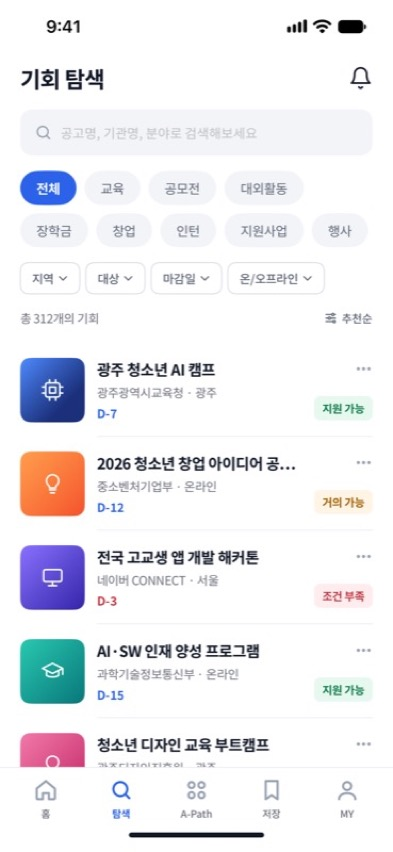
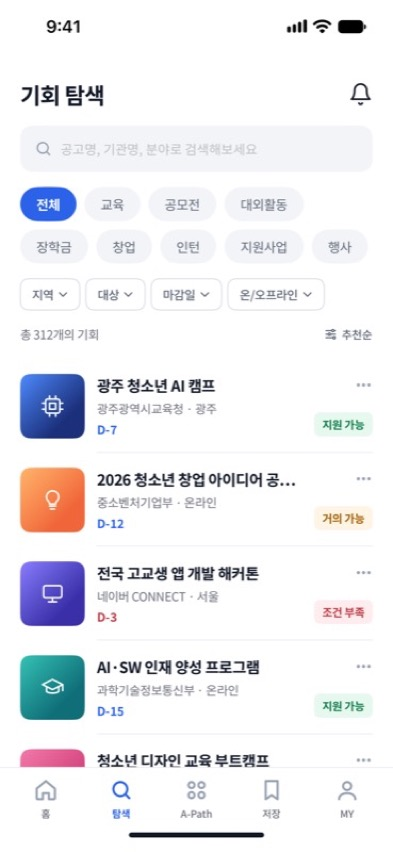
docs: #15 correct Explore Figma crop and record C4 parity
Refresh the Explore target from the frame origin and recapture its simulator comparison after spacing correction. Record the C4 bottom sheet measurements, behavior, screenshots, and updated audit progress.

diff --git a/Docs/figma-screen-audit.md b/Docs/figma-screen-audit.md
@@ -36,7 +36,7 @@
 | 34:1186 | C1 검색 | 393×852 | 수정 후 직접 재대조 완료 · 검색창·최근 검색·인기 검색어·탐색 연결 |
 | 34:1250 | C2 검색 결과 | 393×852 | 수정 후 직접 재대조 완료 · 검색어·14개 결과·5개 행·상태 배지 |
 | 34:1368 | C3 검색 결과 없음 | 393×852 | 수정 후 직접 재대조 완료 · 빈 결과 아이콘·문구·초기화 CTA |
-| 34:1398 | C4 필터 | 393×852 | 미대조 |
+| 34:1398 | C4 필터 | 393×852 | 수정 후 직접 재대조 완료 · 하단 필터 시트·선택 칩·결과 CTA |
 | 34:1596 | C5 정렬 | 393×852 | 미대조 |
 | 34:1759 | C6 더보기 | 393×852 | 미대조 |
 | 35:1487 | D1 상세 · 지원 자격 | 393×852 | 미대조 |
@@ -79,7 +79,7 @@
 ## 직접 확인한 차이
 
 - `2:3 01 Home`: Figma 기준 필터 y=198, 대표 카드 y=250, 오늘의 추천 제목 y=417, 추천 카드 y=465, 다음 행동 제목 y=619, 행동 카드 y=667입니다. 화면 여백(20pt), 섹션 간격(18/24pt), 대표 카드(143pt), 추천 카드(170.5×130pt), 다음 행동 카드(78pt), 타이포그래피를 직접 대조했습니다. 추가로 추천 카드의 진행 색(3/4 파랑, 2/4 주황), CPU 타일의 Figma 그라데이션, 카드 그림자, 전체보기 화살표 자산, `+12개` Bold를 수정했습니다. Figma 목표: `Docs/Screenshots/findr-home-figma-target.png`; 수정 후 앱 캡처: `Docs/Screenshots/findr-home-figma-aligned.jpg`. 캡처는 iPhone 17e(390×844)와 Figma 프레임(393×852) 차이 때문에 동일 비율 369×800으로 비교했으며, 상태 표시줄을 제외한 주요 위치 차이는 1–4px입니다.
-- `3:3 02 Explore`: 검색 헤더, 검색 필드, 두 줄 카테고리, 4개 필터, 결과 수와 목록을 Figma와 직접 대조했습니다. 화면 배경은 흰색으로, 필터는 높이 31pt와 각 너비 59/59/70/96pt로, 목록은 행 높이 93pt·아트 타일 64pt·제목 15pt Bold·기관/지역 12pt Regular·마감 12pt Bold로 맞췄습니다. Explore 행에 Figma에 없는 진행 바와 충족 조건 수가 보이던 점, 첫 행이 16pt 위에서 시작하던 점, 더보기 아이콘과 상태 배지가 행 끝으로 벌어지던 점을 수정했습니다. 첫 행의 타일 시작은 Figma y=359, 시뮬레이터를 393pt 너비로 환산한 캡처에서 약 y=358입니다. Figma 캔버스 높이 933pt와 iPhone 17e 화면 높이 852pt가 달라 탭 바 위치와 한 화면에 보이는 행 수는 다릅니다. 목표: `Docs/Screenshots/findr-explore-figma-target.png`; 앱: `Docs/Screenshots/findr-explore-figma-aligned.jpg`.
+- `3:3 02 Explore`: 검색 헤더, 검색 필드, 두 줄 카테고리, 4개 필터, 결과 수와 목록을 Figma와 직접 대조했습니다. 화면 배경은 흰색으로, 필터는 높이 31pt와 각 너비 59/59/70/96pt로, 목록은 행 높이 93pt·아트 타일 64pt·제목 15pt Bold·기관/지역 12pt Regular·마감 12pt Bold로 맞췄습니다. Explore 행에 Figma에 없는 진행 바와 충족 조건 수가 보이던 점, 더보기 아이콘과 상태 배지가 행 끝으로 벌어지던 점을 수정했습니다. Figma 원본을 다시 내보내 프레임 상단 기준으로 잘라 이전 목표 이미지의 16pt crop 오차를 바로잡았고, 이에 맞춰 Explore 상단 여백을 30pt로 조정했습니다. 첫 행 타일 시작은 Figma y=375, 시뮬레이터 캡처를 393pt 너비로 환산해 약 y=374입니다. Figma 캔버스 높이 933pt와 iPhone 17e 화면 높이 852pt가 달라 탭 바 위치와 한 화면에 보이는 행 수는 다릅니다. 목표: `Docs/Screenshots/findr-explore-figma-target.png`; 앱: `Docs/Screenshots/findr-explore-figma-aligned.jpg`.
 - `3:424 04 A-Path`: Figma What-if 카드(y=127, h=257), 설명문, 카테고리 탭과 추천 행동 목록을 직접 대조했습니다. 카드 배경/내부 여백, What-if 라벨·제목·현재/완료 수·증가 배지·분야별 칩의 글꼴 크기와 굵기, 비교 화살표 간격을 맞췄고 탭 레이블의 14pt 굵기/색/인디케이터 폭도 수정했습니다. 행동 행은 353×74pt, 간격 10pt, 좌우 패딩 16pt로 맞췄습니다. 두 번째 행의 컴퓨터 아이콘/초록 배경이 파일 아이콘/파랑 배경으로 잘못 표시되던 문제를 고쳐, 추천 행동 전용 색상 SVG를 사용하게 했습니다. Figma 첫 행 y=493, 앱 캡처를 393pt 너비로 환산한 시작 위치는 약 y=494입니다. Figma 927pt와 iPhone 17e 852pt의 화면 높이 차이 때문에 네 번째 행과 탭 바의 노출 범위만 다릅니다. 기준: `Docs/Screenshots/findr-apath-figma-target.png`; 앱: `Docs/Screenshots/findr-apath-figma-aligned.jpg`.
 - `3:558 05 Saved`: 저장 필터(전체 5·지원 가능 3·마감 임박 2), 정렬·마감 알림 행과 카드 목록을 직접 대조했습니다. 본문 위치를 Figma y=86 헤더·y=127 필터·y=180 정렬·y=212 목록에 맞췄습니다. 저장 카드는 353×98pt, 68pt 타일, 15pt Bold 제목, 12pt Regular 기관명, 12pt Bold 마감일, 60pt 진행 막대, 18pt 더보기 아이콘과 22pt 간격, Figma 카드 그림자를 적용했습니다. 첫 대조에서 앱 보조 문구에 지역까지 붙어 있었고, Figma에는 기관명만 표시됩니다. 저장 카드에만 기관명을 표시하도록 수정해 라이트·다크 Saved 두 화면에 반영했습니다. 모니터·전구·졸업모 타일의 Figma 그라데이션 색과 71.429% 색 정지점을 맞췄습니다. Figma 프레임에는 4개 카드가 있고 전체 수는 5로 표시됩니다. 앱의 5번째 저장 기회는 422pt 높이의 내부 목록을 스크롤하면 볼 수 있게 해 초기 화면의 네 카드 배치와 전체 개수를 모두 보존했습니다. 기준: `Docs/Screenshots/findr-saved-figma-target.png`; 앱: `Docs/Screenshots/findr-saved-figma-aligned.jpg`.
 - `3:310 03-B Opportunity Detail (Missing)`: 실제 상세 화면에 연결된 `summer-tech-internship` 상태를 Figma와 대조했습니다. D-14 태그의 색(빨강→브랜드 파랑), 4/5 진행 막대(빨강→경고 주황), 미충족 상태에서 Figma에 없는 혜택 칩을 수정했습니다. 포트폴리오 안내 카드는 내부 여백 16pt, 보조 문구 13pt, 제목 15pt, 22pt 잠금 아이콘으로 맞추고 `6개`에 Figma 파랑을 적용했습니다. 조건 행 직후 안내 카드와 하단 CTA가 Figma 위치에 맞습니다. 기준: `Docs/Screenshots/findr-missing-detail-figma-target.png`; 앱: `Docs/Screenshots/findr-missing-detail-figma-aligned.jpg`.
@@ -105,7 +105,7 @@
 - `20:1418 04 A-Path — Dark`: 다크 배경, 상단 제목과 도움말, What-if 카드, 숫자와 +12 배지, 4개 분해 칩, 설명문, 탭, 행동 카드 3개의 위치·너비·타이포그래피를 Figma와 직접 비교했습니다. Figma와 같은 저장 완료 상태가 없는 실행 조건에서 기본 시나리오가 포트폴리오 만들기, 29→41, +12 및 교육 +4/공모전 +3/인턴 +3/지원 +2로 표시됩니다. 캡처를 393×852로 정규화했을 때 본문 시작점·카드·목록 행의 위치 차이는 약 0–2pt이며, Figma의 정적 Dynamic Island는 기기 캡처와 달라 비교에서 제외했습니다. Figma 기준: `Docs/Screenshots/findr-apath-dark-figma-target.png`; 시뮬레이터: `Docs/Screenshots/findr-apath-dark-figma-aligned.jpg`. 시뮬레이터에 포트폴리오 완료 ID가 저장되어 있으면 다음 시나리오(컴퓨터활용능력, 41→49)가 표시될 수 있습니다. 이는 저장 상태에 따른 결과입니다.
 - `33:1279 B4 알림 센터`: 393×852 Figma 프레임과 iPhone 17e 시뮬레이터 캡처를 정규화해 행·그룹 간격·아이콘·읽음 배지·문장 줄바꿈을 직접 비교했습니다. 앱에서 읽은 행도 투명한 6pt 점 영역을 예약해 `이번 주`의 공고 변경 문장이 Figma보다 일찍 줄바꿈되고, 알림 행 높이 차이로 아래 그룹이 밀렸습니다. 읽지 않은 행에만 점을 배치하고 세로 여백을 13pt로 보정해 Figma의 90pt 행 높이와 그룹 위치를 맞췄습니다. 첫 알림 배경 시작점은 Figma y=151·앱 y=152, 두 번째는 양쪽 y=257이며 텍스트 글리프 위치는 대체로 0–3pt 차이입니다. 설정·잠금·시계는 Figma 원본 SVG를 추가했고 뒤로가기·반짝이·편집 SVG는 로컬 에셋이 원본과 바이트 단위로 일치함을 확인했습니다. Figma의 정적 Dynamic Island와 시뮬레이터 상태 표시줄 모양은 비교에서 제외했습니다. Figma 기준: `Docs/Screenshots/findr-notification-center-b4-figma-target.png`; 앱: `Docs/Screenshots/findr-notification-center-b4-figma-aligned.png`.
 - `33:1354 B5 알림 센터 · 비어 있음`: 393×852 Figma 프레임과 실제 앱의 빈 알림 상태를 비교했습니다. 앱은 벨 원형과 안내 문구가 아래로 약 11–12pt 내려가 있었고 제목과 설명 간격이 Figma보다 좁았습니다. Figma의 32pt 2색 벨 SVG를 원본 렌더링으로 추가하고, 아이콘·제목·설명 사이 12pt 간격 및 본문 세로 배치를 맞췄습니다. 재캡처에서 벨 배경 원은 y=348로 맞고 제목 글리프는 Figma y=437·앱 y=438, 설명은 Figma y=471·앱 y=474입니다. 기준: `Docs/Screenshots/findr-notification-empty-b5-figma-target.png`; 앱: `Docs/Screenshots/findr-notification-empty-b5-figma-aligned.png`. 정적 Dynamic Island와 실제 기기 상태 표시줄은 비교에서 제외했습니다.
-- 직접 대조 완료로 기록한 화면은 `2:3 Home`, `20:1117 Home — Dark`, `20:1200 Explore — Dark`, `20:1338 Opportunity Detail — Dark`, `20:1418 A-Path — Dark`, `20:1524 Saved — Dark`, `20:1632 MY — Dark`, `20:1727 Opportunity Detail (Missing) — Dark`, `30:614 A1 Splash`, `30:628 A2 Onboarding 1`, `30:659 A3 Onboarding 2`, `30:690 A4 Onboarding 3`, `30:721 A5 Login`, `31:672 A6 Profile 1`, `31:719 A7 Profile 2`, `31:771 A8 Profile 3`, `31:830 A9 Profile 4`, `31:881 A10 Analyzing`, `31:916 A11 Result`, `31:954 A12 Notification Permission`, `33:845 B1 Home · 거의 가능`, `33:960 B2 Home · 마감 임박`, `33:1129 B3 오늘의 추천 전체보기`, `33:1279 B4 알림 센터`, `33:1354 B5 알림 센터 · 비어 있음`, `34:1186 C1 검색`, `34:1250 C2 검색 결과`, `34:1368 C3 검색 결과 없음`, `3:3 Explore`, `3:424 A-Path`, `3:558 Saved`, `3:204 Opportunity Detail`, `3:310 Opportunity Detail (Missing)`, `3:716 MY`, G2, G3, G4, G6, G10 서른아홉 개입니다. 총 66개 중 27개는 아직 Figma와 대조하지 않았으며, 나머지 다크 화면과 상태 프레임도 별도로 대조해야 합니다.
+- 직접 대조 완료로 기록한 화면은 `2:3 Home`, `20:1117 Home — Dark`, `20:1200 Explore — Dark`, `20:1338 Opportunity Detail — Dark`, `20:1418 A-Path — Dark`, `20:1524 Saved — Dark`, `20:1632 MY — Dark`, `20:1727 Opportunity Detail (Missing) — Dark`, `30:614 A1 Splash`, `30:628 A2 Onboarding 1`, `30:659 A3 Onboarding 2`, `30:690 A4 Onboarding 3`, `30:721 A5 Login`, `31:672 A6 Profile 1`, `31:719 A7 Profile 2`, `31:771 A8 Profile 3`, `31:830 A9 Profile 4`, `31:881 A10 Analyzing`, `31:916 A11 Result`, `31:954 A12 Notification Permission`, `33:845 B1 Home · 거의 가능`, `33:960 B2 Home · 마감 임박`, `33:1129 B3 오늘의 추천 전체보기`, `33:1279 B4 알림 센터`, `33:1354 B5 알림 센터 · 비어 있음`, `34:1186 C1 검색`, `34:1250 C2 검색 결과`, `34:1368 C3 검색 결과 없음`, `34:1398 C4 필터`, `3:3 Explore`, `3:424 A-Path`, `3:558 Saved`, `3:204 Opportunity Detail`, `3:310 Opportunity Detail (Missing)`, `3:716 MY`, G2, G3, G4, G6, G10 마흔 개입니다. 총 66개 중 26개는 아직 Figma와 대조하지 않았으며, 나머지 다크 화면과 상태 프레임도 별도로 대조해야 합니다.
 
 ## 화면별 완료 기록
 
@@ -127,3 +127,4 @@
 - `34:1186 C1 검색`: Explore 검색 필드를 눌렀을 때 여는 화면이 없어서 검색 경로와 C1 화면을 연결했습니다. Figma의 검색 필드 테두리·아이콘, 취소 버튼, 최근 검색 칩 2행, 인기 검색 8개 순서·색·세로 위치를 직접 비교했습니다. 검색창은 Figma와 앱 모두 y=62에서 시작하고, 칩 행은 y=171/212, 인기 검색 제목은 y=271, 첫 결과는 y=312에 놓입니다. 최근 항목 선택·삭제·전체 삭제와 검색어 선택 후 Explore 결과로 돌아가는 동작도 구현했습니다. 화면 구성은 정규화한 393×852 캡처에서 일치합니다. iPhone 17e와 Figma의 Dynamic Island/상태 표시줄 표현 차이는 제외했습니다. Figma 기준: `Docs/Screenshots/findr-search-c1-figma-target.png`; 앱: `Docs/Screenshots/findr-search-c1-figma-aligned.png`.
 - `34:1250 C2 검색 결과`: C1에서 검색어를 제출하면 열리는 결과 화면을 추가했습니다. Figma의 `AI` 검색어·14개 결과 표시와 상위 5개 결과의 이름, 기관·지역, 마감일, 추천 상태, 더보기 아이콘과 썸네일 원본 SVG/그라데이션을 대조했습니다. 64×64pt 썸네일 시작 y는 Figma에서 168/272/376/480/584pt이고, iPhone 17e 캡처를 기기 비율로 환산하면 약 167/271/375/479/583pt로 각 행 차이가 약 1pt입니다. C2에서 결과를 선택하면 해당 기회 상세로 연결되고 취소하면 Explore로 돌아갑니다. 시스템 상태 표시줄의 기기 렌더 차이는 제외했습니다. Figma 기준: `Docs/Screenshots/findr-search-c2-figma-target.png`; 앱: `Docs/Screenshots/findr-search-c2-figma-aligned.png`.
 - `34:1368 C3 검색 결과 없음`: 검색어 `우주항공 인턴`의 빈 결과 화면을 추가했습니다. Figma 원본 32pt 검색 아이콘, 72pt 회색 원, 17pt 제목, 13pt 설명과 180×53pt 초기화 버튼을 비교했습니다. 아이콘·제목 시작 위치 차이는 약 0–1pt, 설명과 버튼은 약 2pt 아래입니다. `필터 초기화`는 검색어와 탐색의 분야·지역·대상·마감·방식 필터 및 정렬을 기본값으로 되돌리고 Explore로 이동합니다. 검색창 X는 검색어 입력 화면으로 돌아가고 취소는 Explore로 돌아갑니다. 시스템 상태 표시줄 표현 차이는 제외했습니다. Figma 기준: `Docs/Screenshots/findr-search-c3-empty-figma-target.png`; 앱: `Docs/Screenshots/findr-search-c3-empty-figma-aligned.png`.
+- `34:1398 C4 필터`: Explore의 네 필터 메뉴를 공통 하단 시트로 바꾸고, 지역·대상·마감일·진행 방식 선택과 닫기·초기화·결과 보기를 연결했습니다. Figma 초기 선택(광주·고등학생·7일 이내·진행 방식 전체)과 `48개 결과 보기`를 반영했습니다. 캡처를 393×852로 정규화해 시트 시작점(y=383), 네 필터 행, 버튼과 홈 인디케이터를 대조했으며 주요 경계는 약 0–3pt 차이입니다. Figma C4 배경의 Explore 콘텐츠와 맞추기 위해 상단 여백을 30pt로 조정했습니다. 기기 상태 표시줄/Dynamic Island 표현은 비교에서 제외했습니다. Figma 기준: `Docs/Screenshots/findr-explore-filter-c4-figma-target.png`; 앱: `Docs/Screenshots/findr-explore-filter-c4-figma-aligned.png`.
